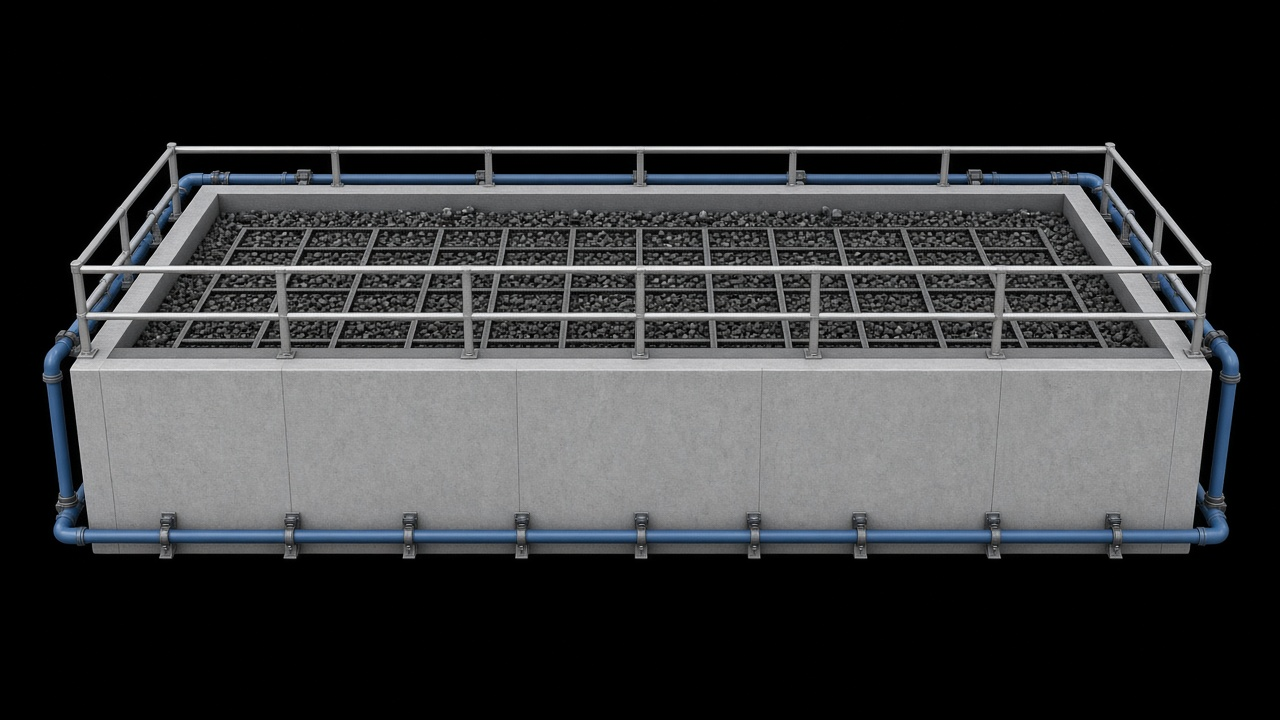
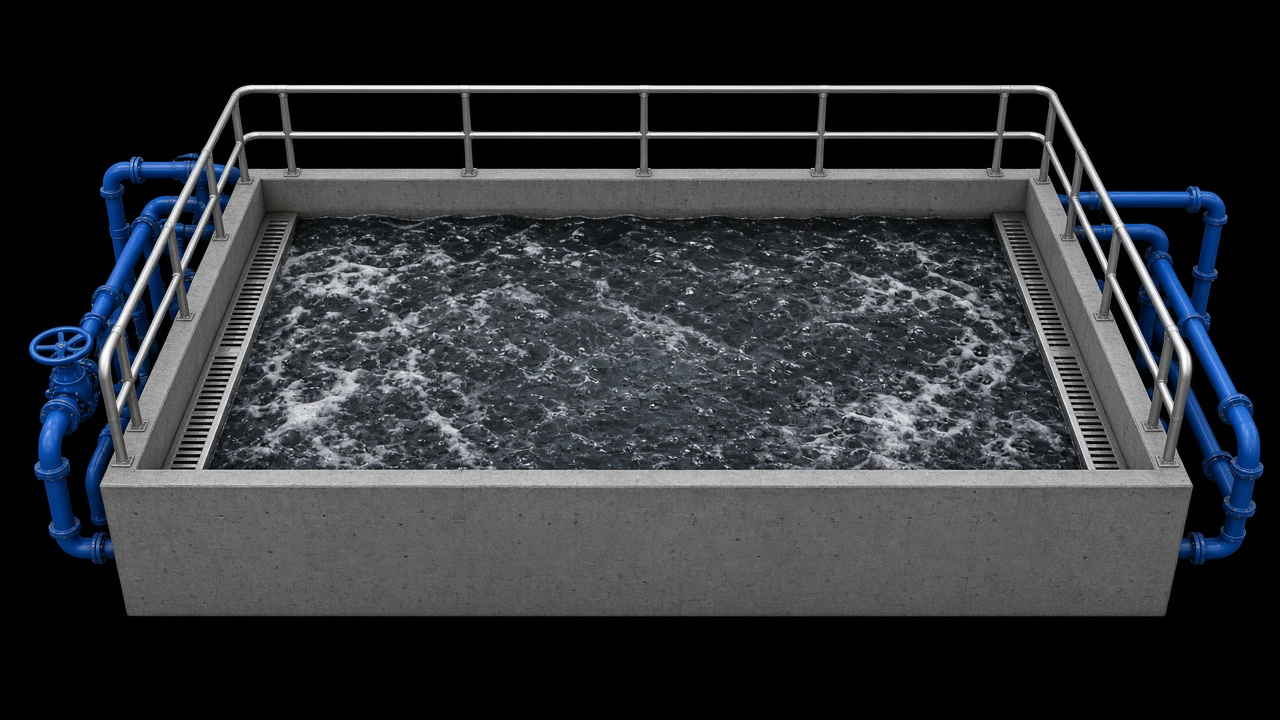
feat: biofilter liquid surface; add plate + shell-tube HX 1/2

diff --git a/data.js b/data.js
@@ -5,6 +5,9 @@ const EQUIPMENT = [
   { id:'exhaust', name:'废气排口', sources:['flow'], photo:'assets/photos/exhaust-stack.jpg', photoKind:'real', render:'assets/renders/exhaust-stack.png' },
   { id:'circulation-pump', name:'循环泵', sources:['flow'], photo:'assets/photos/circulation-pump.jpg', photoKind:'real', render:'assets/renders/circulation-pump.png' },
   { id:'condenser', name:'冷凝器', sources:['pack','flow'], photo:'assets/photos/condenser-coil.jpg', photoKind:'real', render:'assets/renders/condenser.png' },
+  { id:'plate-hx', name:'板式换热器', sources:['flow'], photo:'assets/photos/plate-heat-exchanger.jpg', photoKind:'ref', render:'assets/renders/plate-heat-exchanger.png' },
+  { id:'shell-tube-hx-1', name:'列管式换热器 1', sources:['flow'], photo:'assets/photos/shell-tube-hx-1.jpg', photoKind:'ref', render:'assets/renders/shell-tube-hx-1.png' },
+  { id:'shell-tube-hx-2', name:'列管式换热器 2', sources:['flow'], photo:'assets/photos/shell-tube-hx-2.jpg', photoKind:'ref', render:'assets/renders/shell-tube-hx-2.png' },
   { id:'water-scrubber', name:'水洗塔', sources:['flow'], photo:'assets/photos/scrubbing-tower.jpg', photoKind:'real', render:'assets/renders/water-scrubber.png' },
   { id:'acid-scrubber', name:'酸洗塔', sources:['flow'], photo:'assets/photos/scrubbing-tower.jpg', photoKind:'real', render:'assets/renders/acid-scrubber.png' },
   { id:'crystallizer', name:'结晶釜', sources:['flow'], photo:'assets/photos/crystallizer.jpg', photoKind:'ref', render:'assets/renders/crystallizer.png' },

diff --git a/equipment-inventory.md b/equipment-inventory.md
@@ -32,3 +32,6 @@
 
 ## 渲染相机规范（2026-09-11）
 统一：正视图 + 俯视约 30°，禁止左右偏航不一致。
+26. 板式换热器
+27. 列管式换热器 1
+28. 列管式换热器 2
